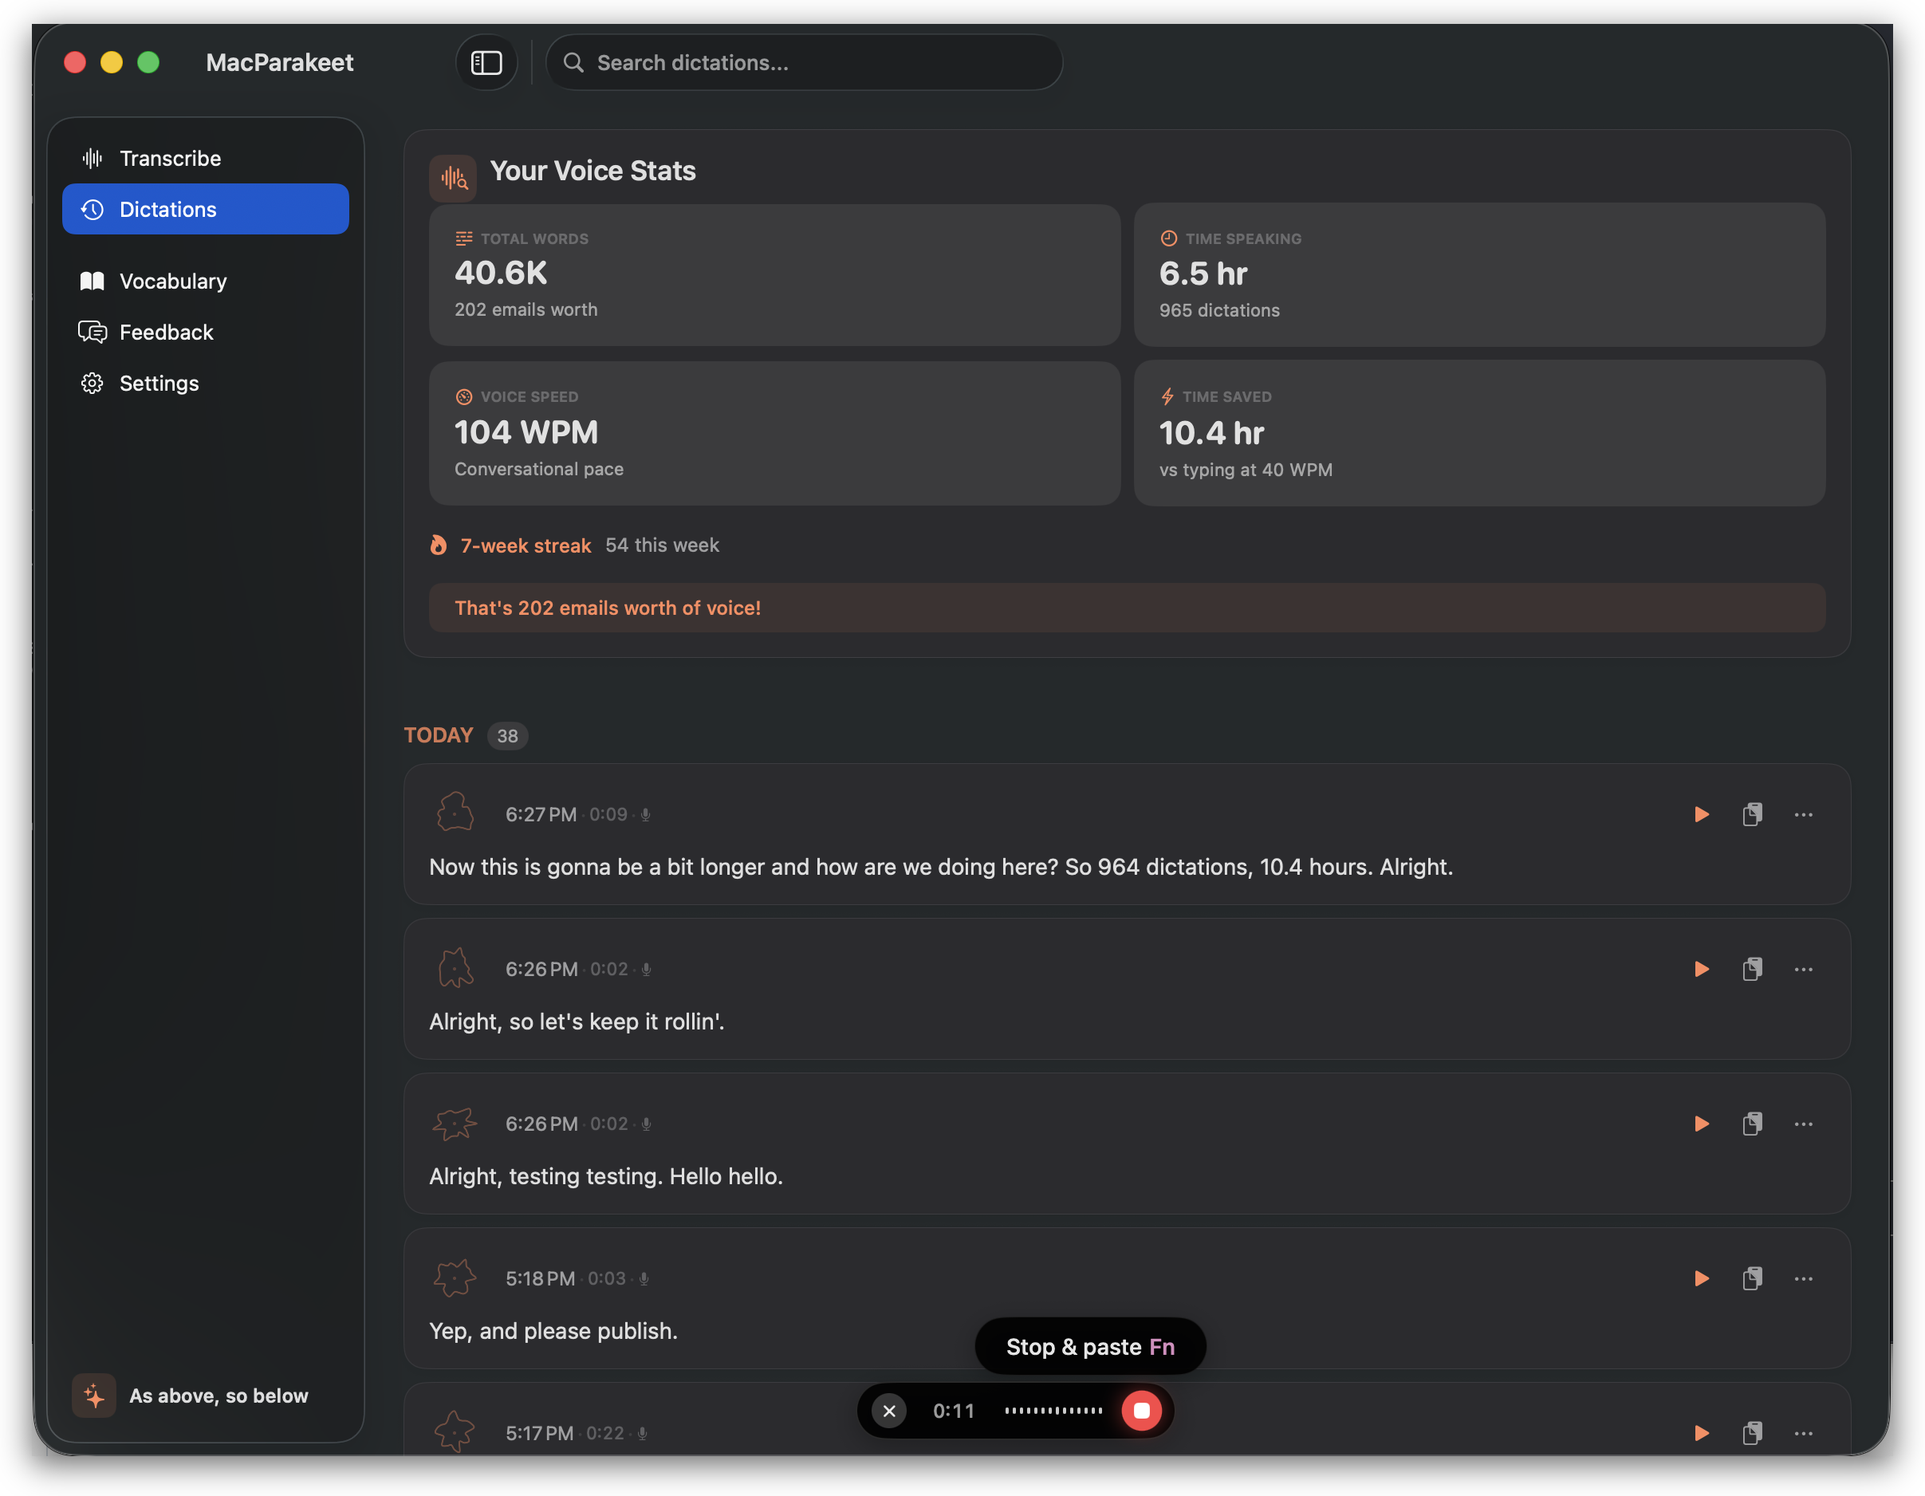
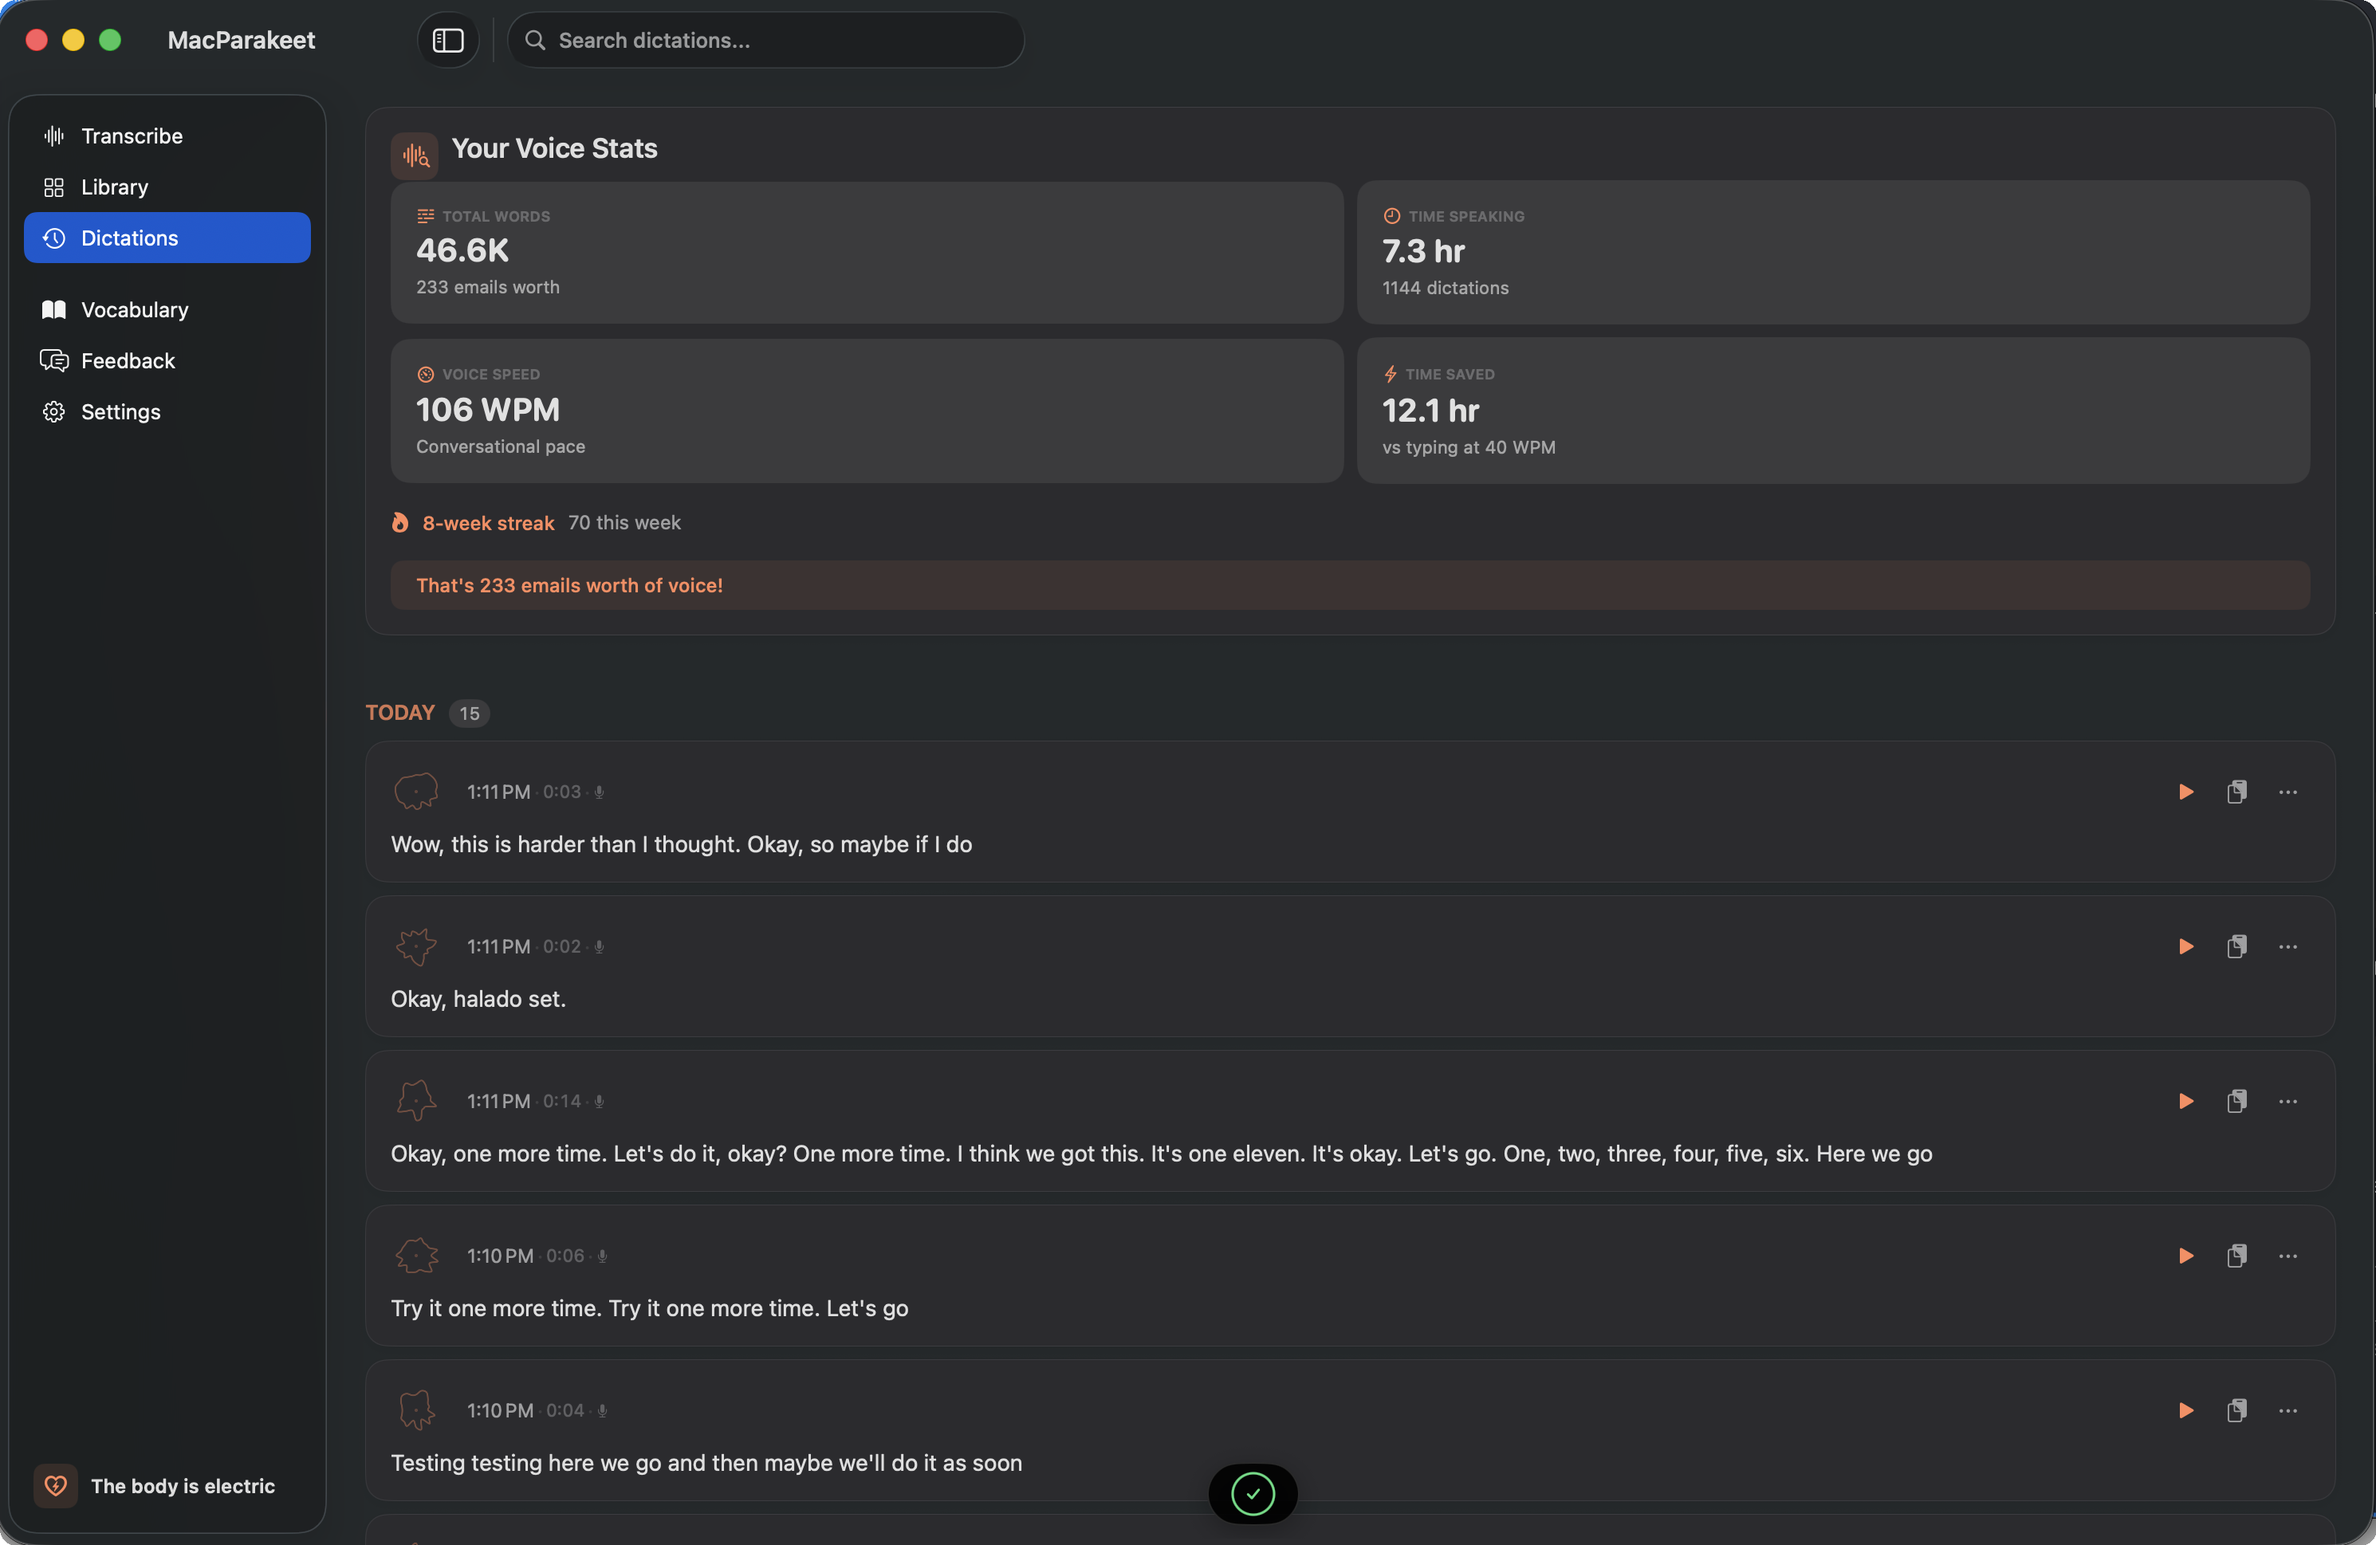
Update README screenshots with current UI
Replace old transcribe and dictations screenshots, add new library
view screenshot. All three images have rounded corners applied.

diff --git a/README.md b/README.md
@@ -29,11 +29,15 @@
 </p>
 
 <p align="center">
-  <img src="Assets/screenshots/transcribe.png" width="720" alt="MacParakeet — Transcription view">
+  <img src="Assets/screenshots/transcribe.png" width="720" alt="MacParakeet — Transcribe view with YouTube and file input">
 </p>
 
 <p align="center">
-  <img src="Assets/screenshots/dictations.png?v=2" width="720" alt="MacParakeet — Dictation history and voice stats">
+  <img src="Assets/screenshots/library.png" width="720" alt="MacParakeet — Transcription library with thumbnails">
+</p>
+
+<p align="center">
+  <img src="Assets/screenshots/dictations.png" width="720" alt="MacParakeet — Dictation history and voice stats">
 </p>
 
 ---
